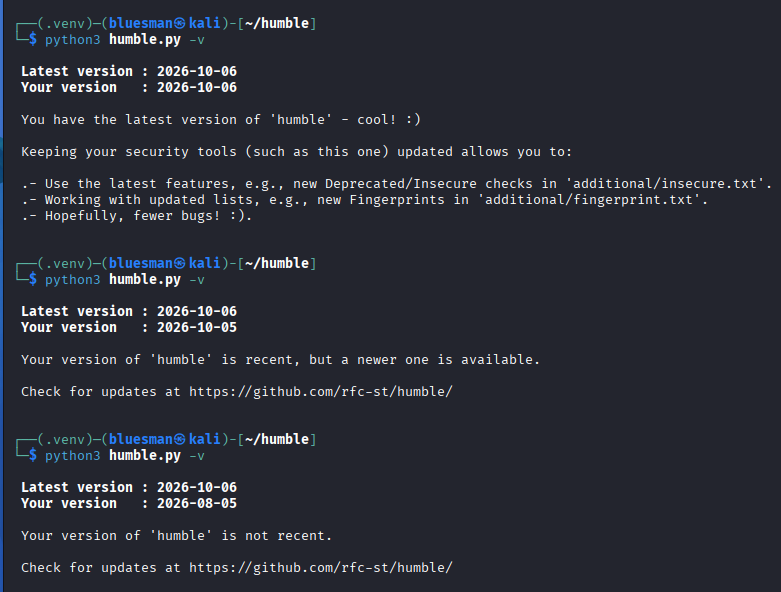
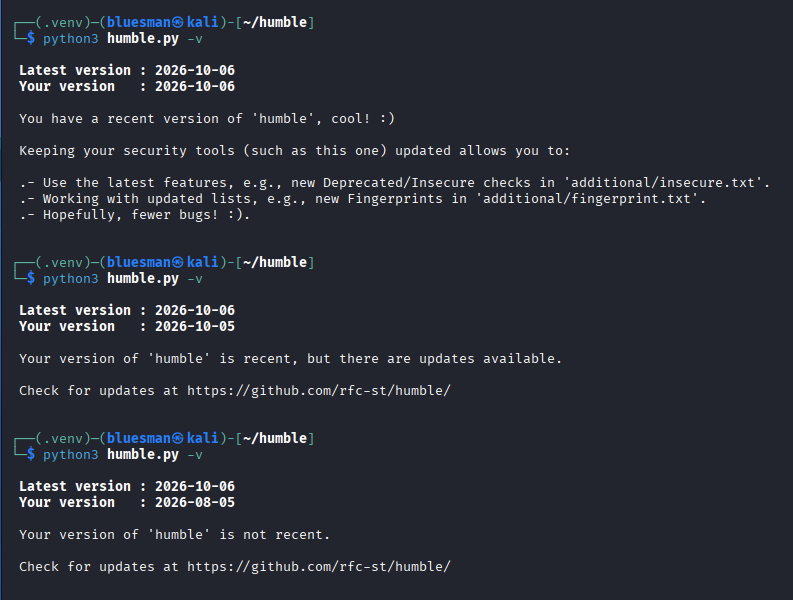
Minor: Better messages with the '-v' option

diff --git a/tests/test_humble.py b/tests/test_humble.py
@@ -704,7 +704,7 @@ def test_newer_humble(capsys):
     humble_module.check_updates_diff(mock_days_diff, mock_github_version,
                                      mock_local_version)
     captured = capsys.readouterr()
-    assert "a newer one is available" in captured.out
+    assert "there are updates available" in captured.out
 
 
 def test_python_version():
@@ -1050,7 +1050,7 @@ def cleanup_analysis_history():
         fsync(original_file.fileno())
 
 
-local_version = date.fromisoformat("2026-10-06")
+local_version = date.fromisoformat("2026-10-07")
 parser = ArgumentParser(
     formatter_class=lambda prog: RawDescriptionHelpFormatter(
         prog, max_help_position=34,

diff --git a/humble.py b/humble.py
@@ -76,7 +76,7 @@ Reference/Status/", "https://raw.githubusercontent.com/rfc-st/humble/master/\
 humble.py", "https://github.com/rfc-st/humble")
 DATE_FORMAT = "%Y/%m/%d - %H:%M:%S"
 current_time = datetime.now().astimezone().strftime(DATE_FORMAT)
-local_version = date.fromisoformat("2026-10-06")
+local_version = date.fromisoformat("2026-10-07")
 BANNER_VERSION = f"{URL_LIST[4]} | v.{local_version}"
 
 # Files, path resolution and system directories

diff --git a/README.md b/README.md
@@ -6,7 +6,7 @@
 <a target="_blank" href="https://devguide.python.org/versions/" title="Minimum Python version required to run this tool"><img src="https://img.shields.io/badge/Python-%3E%3D3.11-blue?labelColor=343b41"></a>
 <a target="_blank" href="LICENSE" title="License of this tool"><img src="https://img.shields.io/badge/License-MIT-blue.svg?labelColor=343b41"></a>
 <a target="_blank" href="https://github.com/rfc-st/humble/releases" title="Latest release of this tool"><img src="https://img.shields.io/github/v/release/rfc-st/humble?display_name=release&label=Latest%20Release&labelColor=343b41"></a>
-<a target="_blank" href="https://github.com/rfc-st/humble/commits/master" title="Latest commit of this tool"><img src="https://img.shields.io/badge/Latest_Commit-2026--10--06-blue.svg?labelColor=343b41"></a>
+<a target="_blank" href="https://github.com/rfc-st/humble/commits/master" title="Latest commit of this tool"><img src="https://img.shields.io/badge/Latest_Commit-2026--10--07-blue.svg?labelColor=343b41"></a>
 <a target="_blank" href="https://pkg.kali.org/pkg/humble" title="Official tool in Kali Linux"><img src="https://img.shields.io/badge/Kali%20Linux-Tool-blue?labelColor=343b41"></a>
 <br />
 <a target="_blank" href="#" title="Featured on:"><img src="https://img.shields.io/badge/Featured%20on:-343b41"></a>

diff --git a/docs/index.md b/docs/index.md
@@ -82,6 +82,6 @@ And a special greeting to Alba, Aleix, Alejandro (x3), Álvaro, Ana, Carlos (x3)
 <aside class="md-source-file">
 <span class="md-source-file__fact">
 Last updated on
-<span class="git-revision-date-localized-plugin git-revision-date-localized-plugin-datetime"><em>October 06, 2026</em></span>
+<span class="git-revision-date-localized-plugin git-revision-date-localized-plugin-datetime"><em>October 07, 2026</em></span>
 </span>
 </aside>

diff --git a/docs/unit_tests.md b/docs/unit_tests.md
@@ -30,6 +30,6 @@ Unit test descriptions are retrieved via `print_results` and `get_detail` functi
 <aside class="md-source-file">
 <span class="md-source-file__fact">
 Last updated on
-<span class="git-revision-date-localized-plugin git-revision-date-localized-plugin-datetime"><em>October 06, 2026</em></span>
+<span class="git-revision-date-localized-plugin git-revision-date-localized-plugin-datetime"><em>October 07, 2026</em></span>
 </span>
 </aside>

diff --git a/docs/references.md b/docs/references.md
@@ -5,6 +5,6 @@
 <aside class="md-source-file">
 <span class="md-source-file__fact">
 Last updated on
-<span class="git-revision-date-localized-plugin git-revision-date-localized-plugin-datetime"><em>October 06, 2026</em></span>
+<span class="git-revision-date-localized-plugin git-revision-date-localized-plugin-datetime"><em>October 07, 2026</em></span>
 </span>
 </aside>
